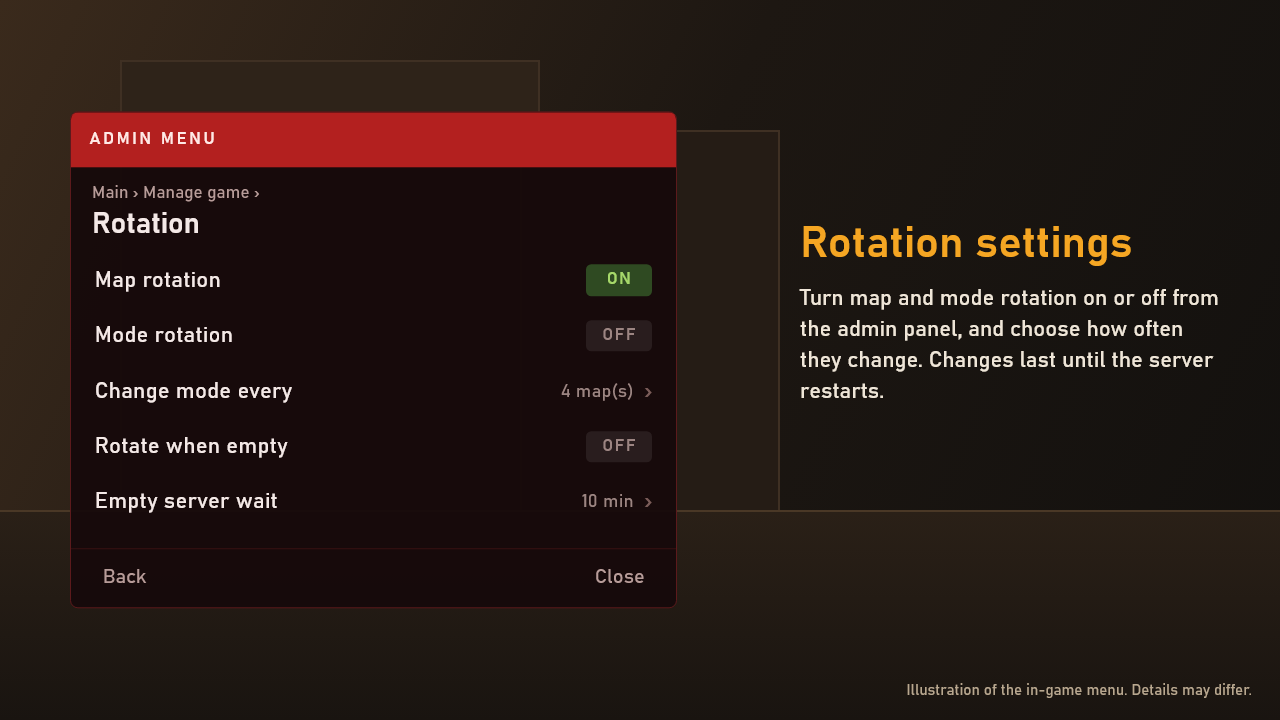
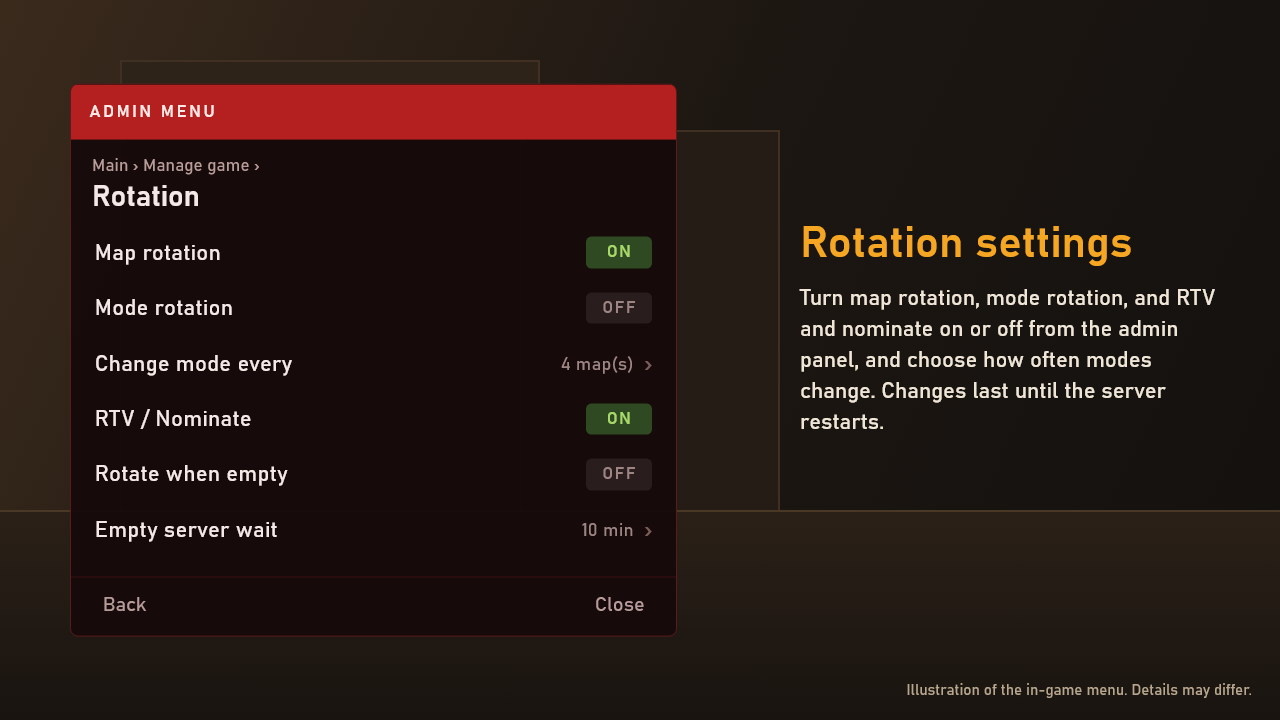
Update README images and the release checklist
The images now show the new vote footer and the RTV / Nominate row. The checklist uses the server repo's Check-Visuals.ps1.

diff --git a/docs/RELEASE_CHECKLIST.md b/docs/RELEASE_CHECKLIST.md
@@ -5,7 +5,8 @@ Merging to `main` publishes a release when the version is new, so go through thi
 ## Before merging
 - [ ] Set the new version in `GameModeManager/Plugin.cs` (`ModuleVersion`). The NuGet package uses the same number.
 - [ ] The pull request's checks pass, including the bundled plugin and Kus config checks.
-- [ ] If menu files changed, the Workshop addon is rebuilt and uploaded, and you've seen it on your PC.
+- [ ] `scripts\Check-Visuals.ps1` in the server repo prints nothing. It covers the addon's build and upload, map pictures, screenshots and the README's versions.
+- [ ] If menu files changed, you've seen the uploaded addon on a PC that isn't using your local build.
 - [ ] Tested on the test server with `.\test-build.ps1`: `css_pmm_gg1`, `!game`, `!modes`, `!rtv`, `!nominate`, `!menu`, a match ending, and a workshop map change.
 - [ ] If `docs/wiki` changed, it reads correctly. It replaces the matching pages on the wiki.
 - [ ] The pull request description is ready, because it becomes the release notes.
